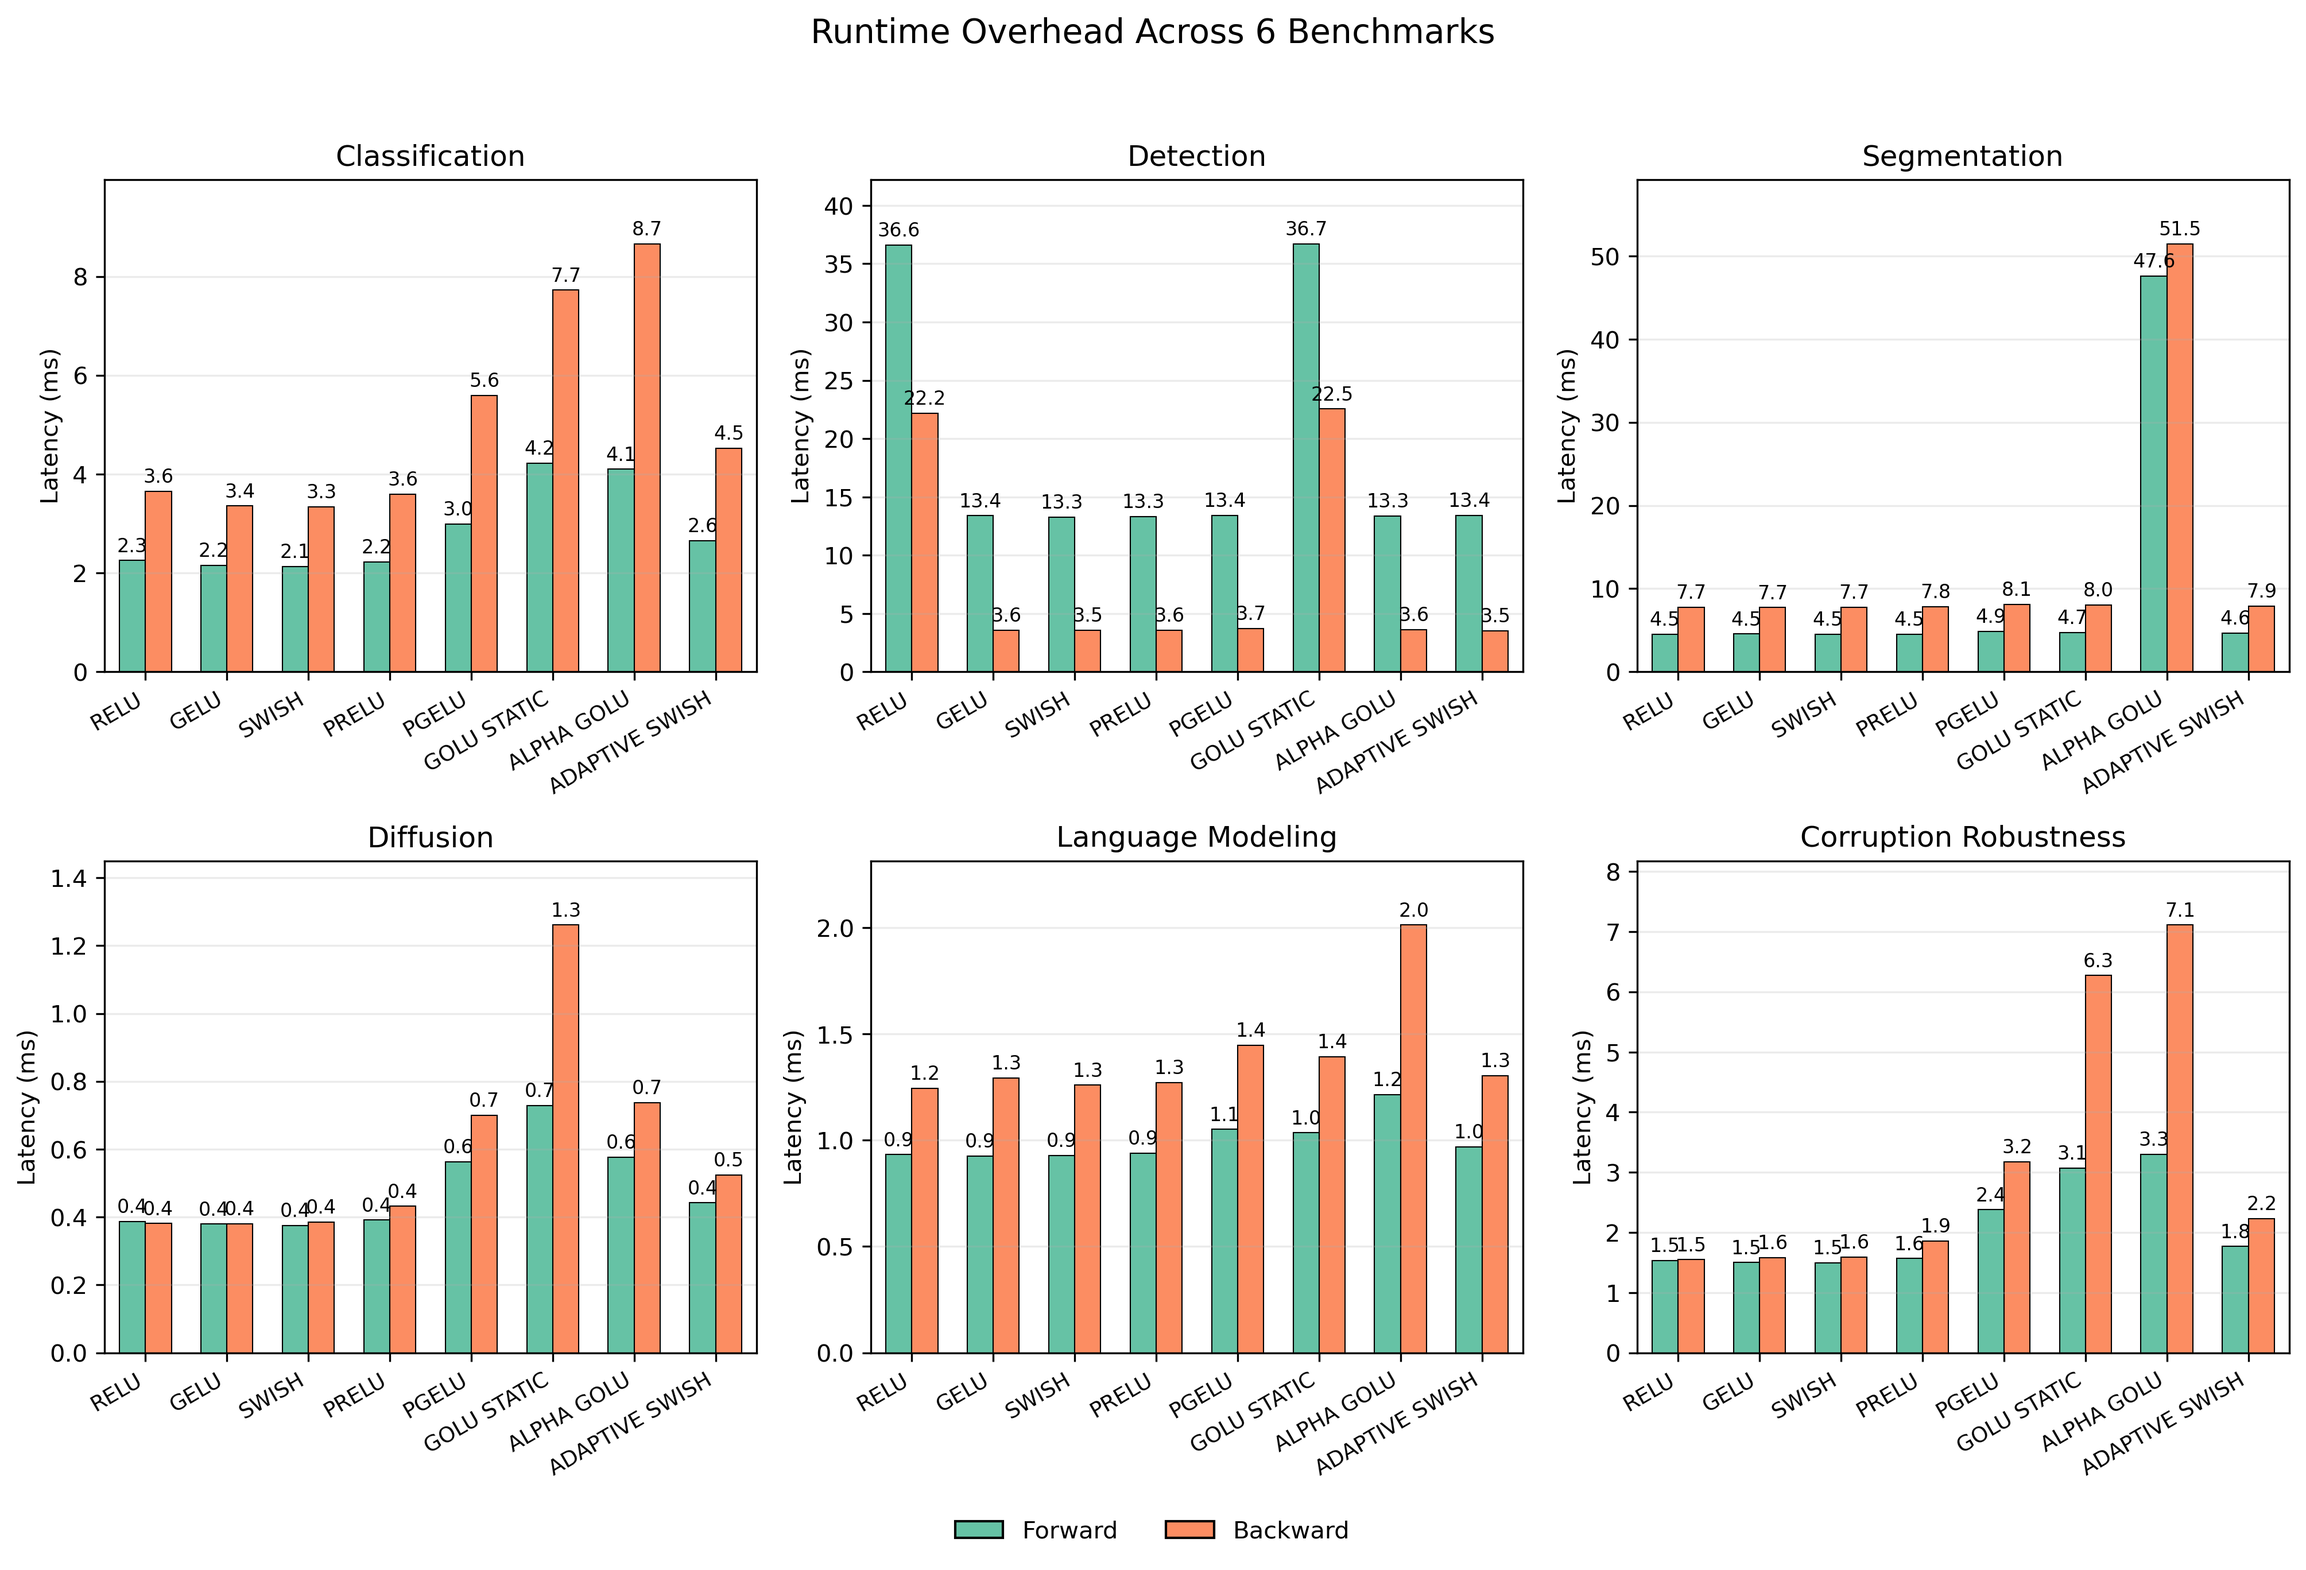
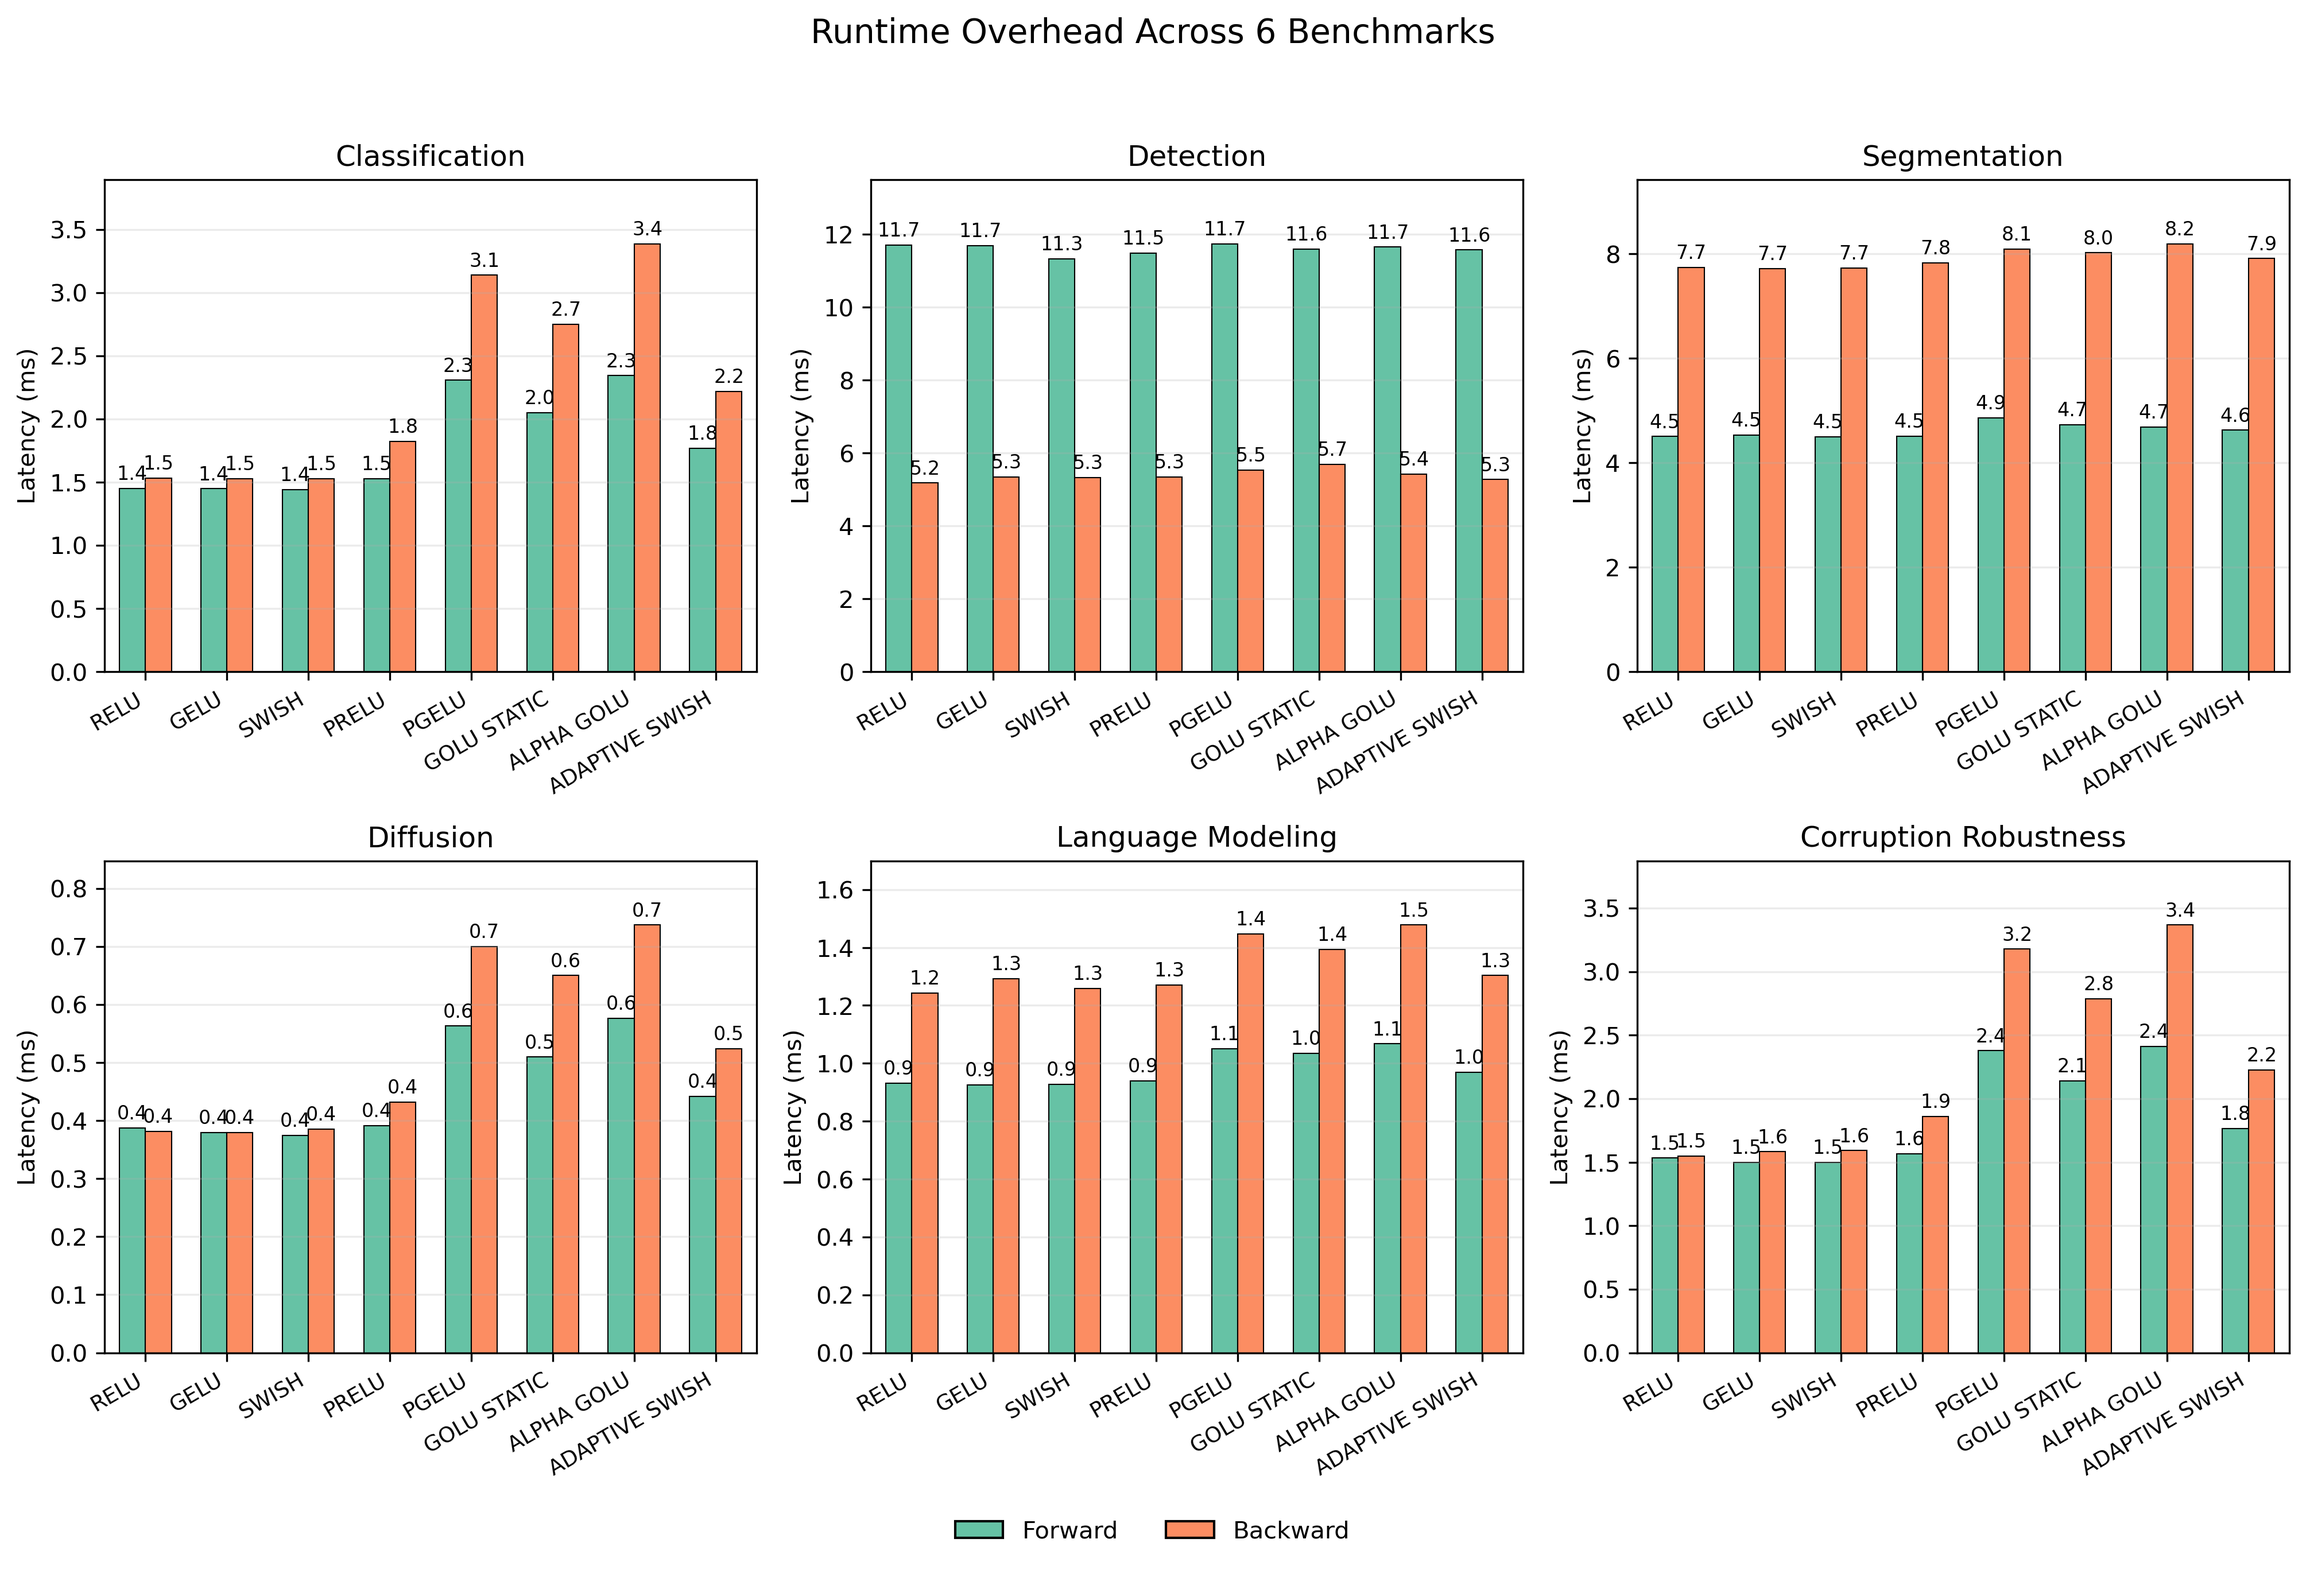
Regenerate overhead table/figure from clean CUDA-event sweep data

diff --git a/outputs/paper_assets/overhead_table.tex b/outputs/paper_assets/overhead_table.tex
@@ -8,14 +8,14 @@
 \toprule
 Activation & \textbf{Classification} & \textbf{Detection} & \textbf{Segmentation} & \textbf{Diffusion} & \textbf{Language Modeling} & \textbf{Corruption Robustness} \\
 \midrule
-\texttt{RELU} & \shortstack{Fwd 2.44 ms\\Bwd 4.52 ms\\Mem 550.4 MB\\FLOPs 428407.7M} & \shortstack{Fwd 106.00 ms\\Bwd 78.32 ms\\Mem 6706.2 MB\\FLOPs 6111847.3M} & \shortstack{Fwd N/A ms\\Bwd N/A ms\\Mem N/A MB\\FLOPs N/A} & \shortstack{Fwd N/A ms\\Bwd N/A ms\\Mem N/A MB\\FLOPs N/A} & \shortstack{Fwd N/A ms\\Bwd N/A ms\\Mem N/A MB\\FLOPs N/A} & \shortstack{Fwd N/A ms\\Bwd N/A ms\\Mem N/A MB\\FLOPs N/A} \\
-\texttt{GELU} & \shortstack{Fwd 2.45 ms\\Bwd 4.76 ms\\Mem 629.3 MB\\FLOPs 429907.5M} & \shortstack{Fwd N/A ms\\Bwd N/A ms\\Mem N/A MB\\FLOPs N/A} & \shortstack{Fwd N/A ms\\Bwd N/A ms\\Mem N/A MB\\FLOPs N/A} & \shortstack{Fwd N/A ms\\Bwd N/A ms\\Mem N/A MB\\FLOPs N/A} & \shortstack{Fwd N/A ms\\Bwd N/A ms\\Mem N/A MB\\FLOPs N/A} & \shortstack{Fwd N/A ms\\Bwd N/A ms\\Mem N/A MB\\FLOPs N/A} \\
-\texttt{SWISH} & \shortstack{Fwd 2.43 ms\\Bwd 4.73 ms\\Mem 698.7 MB\\FLOPs 429050.5M} & \shortstack{Fwd N/A ms\\Bwd N/A ms\\Mem N/A MB\\FLOPs N/A} & \shortstack{Fwd N/A ms\\Bwd N/A ms\\Mem N/A MB\\FLOPs N/A} & \shortstack{Fwd N/A ms\\Bwd N/A ms\\Mem N/A MB\\FLOPs N/A} & \shortstack{Fwd N/A ms\\Bwd N/A ms\\Mem N/A MB\\FLOPs N/A} & \shortstack{Fwd N/A ms\\Bwd N/A ms\\Mem N/A MB\\FLOPs N/A} \\
-\texttt{PRELU} & \shortstack{Fwd 2.51 ms\\Bwd 5.02 ms\\Mem 732.2 MB\\FLOPs 428622.0M} & \shortstack{Fwd N/A ms\\Bwd N/A ms\\Mem N/A MB\\FLOPs N/A} & \shortstack{Fwd N/A ms\\Bwd N/A ms\\Mem N/A MB\\FLOPs N/A} & \shortstack{Fwd N/A ms\\Bwd N/A ms\\Mem N/A MB\\FLOPs N/A} & \shortstack{Fwd N/A ms\\Bwd N/A ms\\Mem N/A MB\\FLOPs N/A} & \shortstack{Fwd N/A ms\\Bwd N/A ms\\Mem N/A MB\\FLOPs N/A} \\
-\texttt{PGELU} & \shortstack{Fwd 3.23 ms\\Bwd 7.69 ms\\Mem 1157.7 MB\\FLOPs 429907.5M} & \shortstack{Fwd N/A ms\\Bwd N/A ms\\Mem N/A MB\\FLOPs N/A} & \shortstack{Fwd N/A ms\\Bwd N/A ms\\Mem N/A MB\\FLOPs N/A} & \shortstack{Fwd N/A ms\\Bwd N/A ms\\Mem N/A MB\\FLOPs N/A} & \shortstack{Fwd N/A ms\\Bwd N/A ms\\Mem N/A MB\\FLOPs N/A} & \shortstack{Fwd N/A ms\\Bwd N/A ms\\Mem N/A MB\\FLOPs N/A} \\
-\texttt{ADAPTIVE-SWISH} & \shortstack{Fwd 2.98 ms\\Bwd 6.04 ms\\Mem 834.7 MB\\FLOPs 429907.5M} & \shortstack{Fwd N/A ms\\Bwd N/A ms\\Mem N/A MB\\FLOPs N/A} & \shortstack{Fwd N/A ms\\Bwd N/A ms\\Mem N/A MB\\FLOPs N/A} & \shortstack{Fwd N/A ms\\Bwd N/A ms\\Mem N/A MB\\FLOPs N/A} & \shortstack{Fwd N/A ms\\Bwd N/A ms\\Mem N/A MB\\FLOPs N/A} & \shortstack{Fwd N/A ms\\Bwd N/A ms\\Mem N/A MB\\FLOPs N/A} \\
-\texttt{GOLU-STATIC} & \shortstack{Fwd 4.84 ms\\Bwd 9.69 ms\\Mem 1430.9 MB\\FLOPs 428193.5M} & \shortstack{Fwd 106.56 ms\\Bwd 78.82 ms\\Mem 6439.8 MB\\FLOPs 6111822.2M} & \shortstack{Fwd N/A ms\\Bwd N/A ms\\Mem N/A MB\\FLOPs N/A} & \shortstack{Fwd 1.17 ms\\Bwd 2.48 ms\\Mem 816.0 MB\\FLOPs 30552.4M} & \shortstack{Fwd N/A ms\\Bwd N/A ms\\Mem N/A MB\\FLOPs N/A} & \shortstack{Fwd 4.93 ms\\Bwd 13.24 ms\\Mem 2605.6 MB\\FLOPs 427371.6M} \\
-\texttt{ALPHA-GOLU} & \shortstack{Fwd 4.72 ms\\Bwd 11.40 ms\\Mem 1657.0 MB\\FLOPs 429907.5M} & \shortstack{Fwd N/A ms\\Bwd N/A ms\\Mem N/A MB\\FLOPs N/A} & \shortstack{Fwd 133.46 ms\\Bwd 138.06 ms\\Mem 24337.2 MB\\FLOPs 7883370.6M} & \shortstack{Fwd N/A ms\\Bwd N/A ms\\Mem N/A MB\\FLOPs N/A} & \shortstack{Fwd 1.51 ms\\Bwd 3.08 ms\\Mem 1056.0 MB\\FLOPs 49678.6M} & \shortstack{Fwd 5.06 ms\\Bwd 14.60 ms\\Mem 2605.6 MB\\FLOPs 429082.3M} \\
+\texttt{RELU} & \shortstack{Fwd 1.45 ms\\Bwd 1.53 ms\\Mem N/A MB\\FLOPs N/A} & \shortstack{Fwd 11.70 ms\\Bwd 5.18 ms\\Mem N/A MB\\FLOPs N/A} & \shortstack{Fwd 4.50 ms\\Bwd 7.74 ms\\Mem N/A MB\\FLOPs N/A} & \shortstack{Fwd 0.39 ms\\Bwd 0.38 ms\\Mem N/A MB\\FLOPs N/A} & \shortstack{Fwd 0.93 ms\\Bwd 1.24 ms\\Mem N/A MB\\FLOPs N/A} & \shortstack{Fwd 1.53 ms\\Bwd 1.55 ms\\Mem N/A MB\\FLOPs N/A} \\
+\texttt{GELU} & \shortstack{Fwd 1.45 ms\\Bwd 1.53 ms\\Mem N/A MB\\FLOPs N/A} & \shortstack{Fwd 11.69 ms\\Bwd 5.34 ms\\Mem N/A MB\\FLOPs N/A} & \shortstack{Fwd 4.53 ms\\Bwd 7.72 ms\\Mem N/A MB\\FLOPs N/A} & \shortstack{Fwd 0.38 ms\\Bwd 0.38 ms\\Mem N/A MB\\FLOPs N/A} & \shortstack{Fwd 0.93 ms\\Bwd 1.29 ms\\Mem N/A MB\\FLOPs N/A} & \shortstack{Fwd 1.50 ms\\Bwd 1.58 ms\\Mem N/A MB\\FLOPs N/A} \\
+\texttt{SWISH} & \shortstack{Fwd 1.44 ms\\Bwd 1.53 ms\\Mem N/A MB\\FLOPs N/A} & \shortstack{Fwd 11.33 ms\\Bwd 5.32 ms\\Mem N/A MB\\FLOPs N/A} & \shortstack{Fwd 4.50 ms\\Bwd 7.73 ms\\Mem N/A MB\\FLOPs N/A} & \shortstack{Fwd 0.37 ms\\Bwd 0.39 ms\\Mem N/A MB\\FLOPs N/A} & \shortstack{Fwd 0.93 ms\\Bwd 1.26 ms\\Mem N/A MB\\FLOPs N/A} & \shortstack{Fwd 1.50 ms\\Bwd 1.59 ms\\Mem N/A MB\\FLOPs N/A} \\
+\texttt{PRELU} & \shortstack{Fwd 1.53 ms\\Bwd 1.82 ms\\Mem N/A MB\\FLOPs N/A} & \shortstack{Fwd 11.49 ms\\Bwd 5.34 ms\\Mem N/A MB\\FLOPs N/A} & \shortstack{Fwd 4.51 ms\\Bwd 7.83 ms\\Mem N/A MB\\FLOPs N/A} & \shortstack{Fwd 0.39 ms\\Bwd 0.43 ms\\Mem N/A MB\\FLOPs N/A} & \shortstack{Fwd 0.94 ms\\Bwd 1.27 ms\\Mem N/A MB\\FLOPs N/A} & \shortstack{Fwd 1.57 ms\\Bwd 1.86 ms\\Mem N/A MB\\FLOPs N/A} \\
+\texttt{PGELU} & \shortstack{Fwd 2.31 ms\\Bwd 3.14 ms\\Mem N/A MB\\FLOPs N/A} & \shortstack{Fwd 11.74 ms\\Bwd 5.54 ms\\Mem N/A MB\\FLOPs N/A} & \shortstack{Fwd 4.86 ms\\Bwd 8.09 ms\\Mem N/A MB\\FLOPs N/A} & \shortstack{Fwd 0.56 ms\\Bwd 0.70 ms\\Mem N/A MB\\FLOPs N/A} & \shortstack{Fwd 1.05 ms\\Bwd 1.45 ms\\Mem N/A MB\\FLOPs N/A} & \shortstack{Fwd 2.38 ms\\Bwd 3.18 ms\\Mem N/A MB\\FLOPs N/A} \\
+\texttt{ADAPTIVE-SWISH} & \shortstack{Fwd 1.77 ms\\Bwd 2.22 ms\\Mem N/A MB\\FLOPs N/A} & \shortstack{Fwd 11.57 ms\\Bwd 5.27 ms\\Mem N/A MB\\FLOPs N/A} & \shortstack{Fwd 4.62 ms\\Bwd 7.91 ms\\Mem N/A MB\\FLOPs N/A} & \shortstack{Fwd 0.44 ms\\Bwd 0.52 ms\\Mem N/A MB\\FLOPs N/A} & \shortstack{Fwd 0.97 ms\\Bwd 1.30 ms\\Mem N/A MB\\FLOPs N/A} & \shortstack{Fwd 1.77 ms\\Bwd 2.23 ms\\Mem N/A MB\\FLOPs N/A} \\
+\texttt{GOLU-STATIC} & \shortstack{Fwd 2.05 ms\\Bwd 2.75 ms\\Mem N/A MB\\FLOPs N/A} & \shortstack{Fwd 11.59 ms\\Bwd 5.69 ms\\Mem N/A MB\\FLOPs N/A} & \shortstack{Fwd 4.73 ms\\Bwd 8.02 ms\\Mem N/A MB\\FLOPs N/A} & \shortstack{Fwd 0.51 ms\\Bwd 0.65 ms\\Mem N/A MB\\FLOPs N/A} & \shortstack{Fwd 1.04 ms\\Bwd 1.39 ms\\Mem N/A MB\\FLOPs N/A} & \shortstack{Fwd 2.14 ms\\Bwd 2.79 ms\\Mem N/A MB\\FLOPs N/A} \\
+\texttt{ALPHA-GOLU} & \shortstack{Fwd 2.34 ms\\Bwd 3.39 ms\\Mem N/A MB\\FLOPs N/A} & \shortstack{Fwd 11.65 ms\\Bwd 5.42 ms\\Mem N/A MB\\FLOPs N/A} & \shortstack{Fwd 4.69 ms\\Bwd 8.19 ms\\Mem N/A MB\\FLOPs N/A} & \shortstack{Fwd 0.58 ms\\Bwd 0.74 ms\\Mem N/A MB\\FLOPs N/A} & \shortstack{Fwd 1.07 ms\\Bwd 1.48 ms\\Mem N/A MB\\FLOPs N/A} & \shortstack{Fwd 2.41 ms\\Bwd 3.37 ms\\Mem N/A MB\\FLOPs N/A} \\
 \bottomrule
 \end{tabular}
 \caption{Mean overhead summary aggregated from saved benchmark runs. Each cell reports forward latency, backward latency, peak CUDA memory, and estimated FLOPs for a single forward+backward step (not summed across the run) for the corresponding activation-task pair.}
